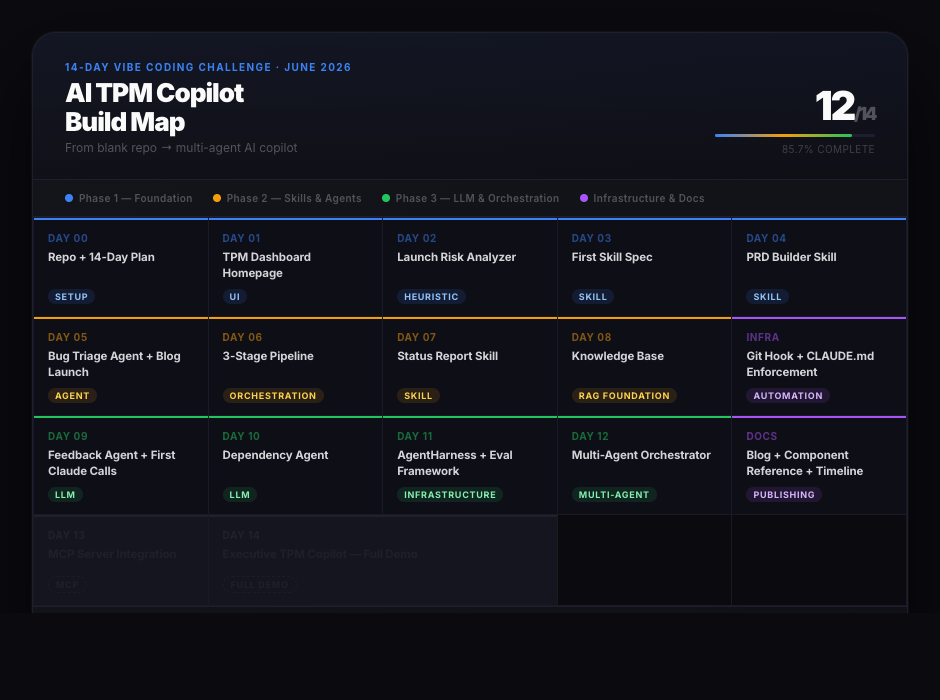
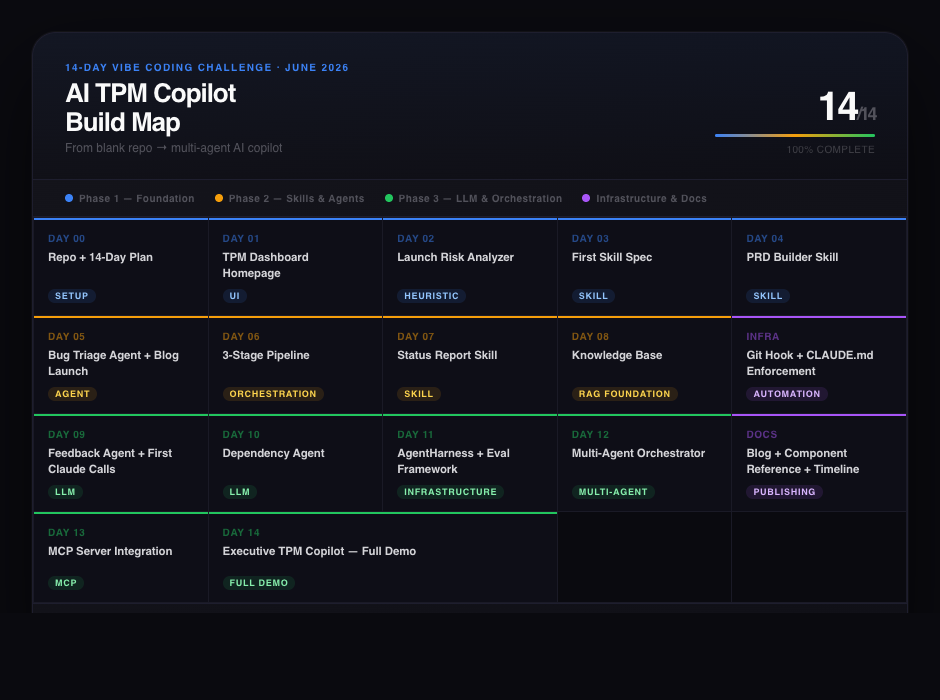
Add challenge-complete blog post, update site to 14/14
Final blog post covering Days 13-14, MCP, and retrospective.
index.md updated to show 14/14 complete. timeline_card.html and
build-map.png updated from 12/14 to 14/14 with Days 13-14 as green.

diff --git a/docs/timeline_card.html b/docs/timeline_card.html
@@ -192,9 +192,9 @@ body {
       <p class="subtitle">From blank repo → multi-agent AI copilot</p>
     </div>
     <div class="header-right">
-      <div class="progress-num">12<span>/14</span></div>
-      <div class="progress-bar"><div class="progress-fill"></div></div>
-      <p class="progress-label">85.7% COMPLETE</p>
+      <div class="progress-num">14<span>/14</span></div>
+      <div class="progress-bar"><div class="progress-fill" style="width:100%"></div></div>
+      <p class="progress-label">100% COMPLETE</p>
     </div>
   </div>
 
@@ -299,13 +299,13 @@ body {
       <span class="cell-tag">Publishing</span>
     </div>
 
-    <div class="cell coming blue">
+    <div class="cell green">
       <div class="cell-day">DAY 13</div>
       <div class="cell-title">MCP Server Integration</div>
       <span class="cell-tag">MCP</span>
     </div>
 
-    <div class="cell coming blue" style="grid-column: span 2;">
+    <div class="cell green" style="grid-column: span 2;">
       <div class="cell-day">DAY 14</div>
       <div class="cell-title">Executive TPM Copilot — Full Demo</div>
       <span class="cell-tag">Full Demo</span>

diff --git a/docs/_posts/2026-06-16-challenge-complete.md b/docs/_posts/2026-06-16-challenge-complete.md
@@ -1,0 +1,107 @@
+---
+title: "14 days, 14 capabilities, one AI TPM Copilot — what I actually built"
+date: 2026-06-16
+categories:
+  - Building in Public
+tags:
+  - ai
+  - agents
+  - tpm
+  - mcp
+  - challenge-complete
+excerpt: "The challenge is done. Here's what I shipped, what surprised me, and what I'd do differently if I started again."
+header:
+  overlay_color: "#0f172a"
+  overlay_filter: "0.6"
+  overlay_image: /assets/images/hero-week1.svg
+  caption: "14 / 14 — Challenge Complete"
+  actions:
+    - label: "View on GitHub"
+      url: "https://github.com/shwsingh/pm-tpm-ai-tools"
+    - label: "Interactive Timeline"
+      url: "https://shwsingh.github.io/pm-tpm-ai-tools/timeline_gitbranch.html"
+    - label: "Component Reference"
+      url: "https://shwsingh.github.io/pm-tpm-ai-tools/components.html"
+toc: true
+toc_sticky: true
+toc_label: "On this page"
+---
+
+*14 days ago I opened a blank repo. Today I have a working multi-agent AI copilot, a real MCP server connectable to Claude Desktop, and a clearer picture of what "AI engineering" actually means for a TPM. Here's what I built — and what I learned.*
+
+---
+
+## What shipped
+
+### Days 13–14: The protocol layer
+
+The final two days were about connecting the copilot to the outside world.
+
+**Day 13 — MCP Server.** I built a real [Model Context Protocol](https://modelcontextprotocol.io) server using the FastMCP Python SDK. It exposes three things to Claude Desktop:
+
+- **Resources** — live TPM data files (launch checklist, risk register, capacity plan) that Claude can read on demand
+- **Tools** — `analyze_launch_risk`, `generate_status_report`, `create_escalation` — actions Claude can call
+- **Prompts** — conversation starters that inject your actual TPM data into Claude before you type a word
+
+Before Day 13: you paste your risk register into Claude. After Day 13: you say "check my risks" and Claude fetches the file. The difference is who does the copy-pasting.
+
+**Day 14 — Executive TPM Copilot.** The capstone pulls everything together: live GitHub commit data feeds into Claude, which synthesises a velocity analysis, milestone summary, and exec briefing — GREEN / YELLOW / RED with specific next actions. The MCP config now includes both the TPM Copilot server and the GitHub MCP server, so Claude Desktop has access to your internal data *and* your repo in a single conversation.
+
+---
+
+## The full build map
+
+| Phase | Days | What got built |
+|-------|------|---------------|
+| Foundation | 0–4 | Repo, dashboard, launch risk analyzer, first skill spec, PRD builder |
+| Skills & Agents | 5–8 | Bug triage agent, 3-stage pipeline, status report skill, knowledge base |
+| LLM & Orchestration | 9–12 | Feedback agent + first Claude calls, dependency agent, AgentHarness + evals, multi-agent orchestrator |
+| Protocol | 13–14 | MCP server (resources/tools/prompts), executive copilot + GitHub live feed |
+
+---
+
+## What actually surprised me
+
+**The output contract was the most important decision I made.** On Day 5, before writing a single line of agent code, I defined exactly what the bug triage agent would return — severity, owner, escalate flag, confidence. That decision paid dividends through Day 12. When I swapped heuristics for Claude on Day 9, nothing downstream changed. When I wired agents as tools in the Day 12 orchestrator, the JSON wrappers were trivial. Design the contract first.
+
+**Claude orchestrating itself is genuinely different from code orchestrating Claude.** Days 1–11 are code calling Claude. Day 12 is Claude calling tools, reasoning on results, and deciding whether to loop. The transition is subtle in the code — one `while` loop and a `tool_use` stop reason check — but the behaviour is qualitatively different. You stop writing "call triage, then call feedback" and start writing "here are the tools, figure it out."
+
+**MCP is simpler than I expected.** FastMCP makes a real MCP server — actual protocol, connectable to Claude Desktop — almost as easy as writing a Flask route. A `@mcp.resource()` decorator, a `@mcp.tool()` decorator, a `@mcp.prompt()` decorator, and `mcp.run()`. The hard part wasn't the code; it was understanding the right role for each primitive: Resources for data, Tools for actions, Prompts for conversation priming.
+
+**Heuristics first was the right call.** The Day 2 launch risk analyzer uses keyword matching. No LLM. I was tempted to add Claude immediately — it would have been two extra lines. I didn't, and I'm glad. Proving the output contract with fast, free, deterministic code meant I knew exactly what "correct" looked like before I asked an LLM to do it.
+
+---
+
+## What I'd do differently
+
+**Add evals on Day 3, not Day 11.** I wrote the skill spec on Day 3 but didn't build the evaluation framework until Day 11. Eight days of Claude outputs with no systematic scoring. In a real project those eight days are where silent regressions live.
+
+**Name the output files by their role, not their day.** `app.py` has grown to 2,000+ lines. The append-per-day pattern was great for learning — each day's section is immediately findable — but production code would split this into modules by capability, not chronology.
+
+**Build the MCP server earlier.** I built it on Day 13 as if it were an advanced topic. It's not. FastMCP is simple enough to introduce on Day 5 alongside the first agent. Starting with MCP from the beginning would have made the resource/tool/prompt distinction clearer from the start.
+
+---
+
+## By the numbers
+
+- **14 days, 14 capabilities** shipped and committed
+- **5 agents** built (bug triage, feedback, dependency, orchestrator, MCP tools)
+- **2 MCP servers** connected to Claude Desktop (TPM Copilot + GitHub)
+- **1 eval framework** running Claude-as-judge against skill spec rules
+- **0 external databases** — session state, markdown files, and chunked text all the way
+
+---
+
+## What's next
+
+The copilot works. The next questions are about making it real:
+
+1. **Live data** — swap the markdown risk register for a Jira query. The MCP tool interface stays identical; only the data source changes.
+2. **Persistent memory** — right now every session starts fresh. A simple SQLite store for past triage decisions would make the agents learn from history.
+3. **Evaluation in CI** — run Claude-as-judge on every commit, not just on demand.
+
+---
+
+*The repo, all design decisions, and per-day lessons are at [github.com/shwsingh/pm-tpm-ai-tools](https://github.com/shwsingh/pm-tpm-ai-tools). The interactive timeline is [here](https://shwsingh.github.io/pm-tpm-ai-tools/timeline_gitbranch.html).*
+
+*Built by Shweta Singh — Senior Manager, TPM at Google.*

diff --git a/docs/index.md b/docs/index.md
@@ -6,8 +6,8 @@ entries_layout: list
 classes: wide
 ---
 
-Building an AI assistant for TPMs in 14 days, in public.
+**14 / 14 — Challenge complete.**
 
-This site is the weekly notebook: what I shipped, what I got wrong, and what I learned about building agentic systems.
+From blank repo to multi-agent AI copilot in 14 days — skills, agents, RAG, evals, multi-agent orchestration, and a real MCP server wired to Claude Desktop.
 
-Source, diagrams, and per-day design decisions live in the [repo](https://github.com/shwsingh/pm-tpm-ai-tools).
+→ [Interactive timeline](https://shwsingh.github.io/pm-tpm-ai-tools/timeline_gitbranch.html) · [Component reference](https://shwsingh.github.io/pm-tpm-ai-tools/components.html) · [GitHub](https://github.com/shwsingh/pm-tpm-ai-tools)